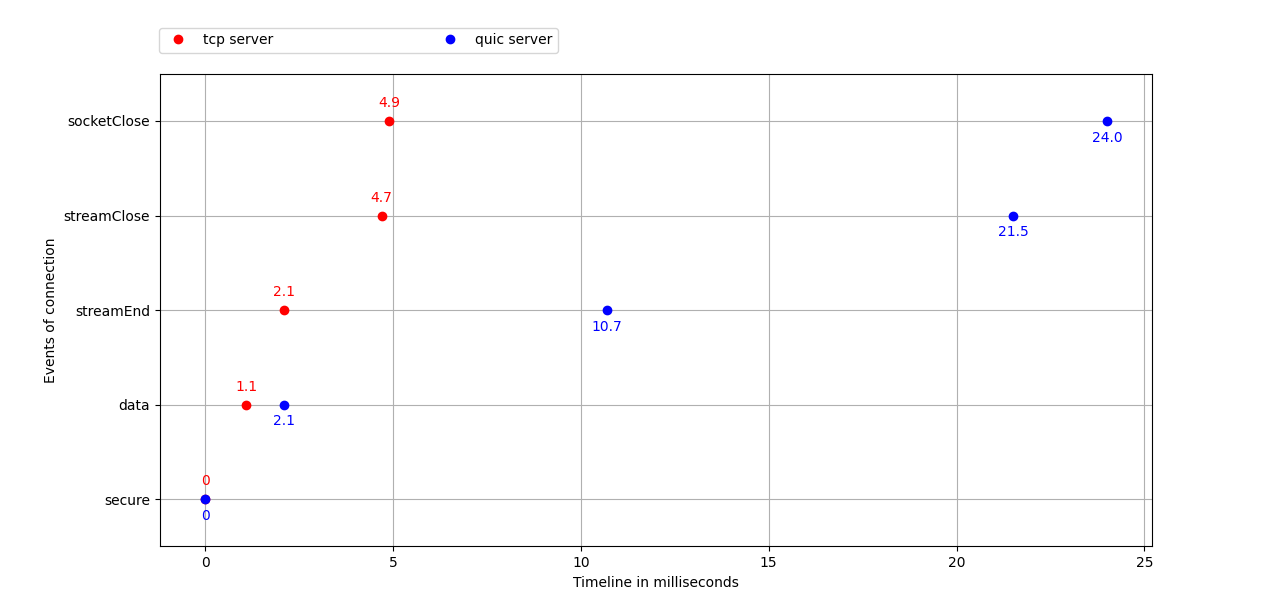
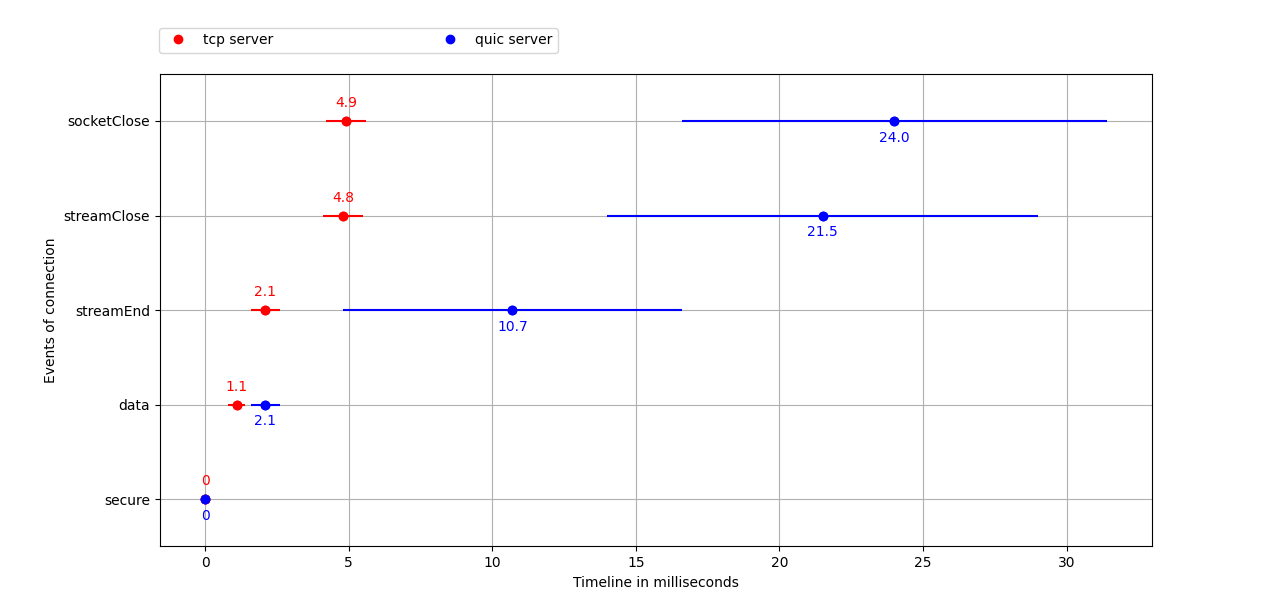
Add stdev to event comparison graph

diff --git a/visualize_events/visualize_events.py b/visualize_events/visualize_events.py
@@ -24,9 +24,9 @@ def set_timestamps():
     quic_dict = load_results(quic_key, samples_path("samples_threshold5_dev2_delay0"))
     tcp_dict = load_results(tcp_key, samples_path("samples_threshold5_dev2_delay0"))    
 
-    quic_labels, quic_stamps = get_timestamps(quic_dict)
-    tcp_labels, tcp_stamps = get_timestamps(tcp_dict)
-    return quic_labels, quic_stamps, tcp_labels, tcp_stamps
+    quic_labels, quic_stamps, quic_stdev = get_timestamps(quic_dict)
+    tcp_labels, tcp_stamps, tcp_stdev = get_timestamps(tcp_dict)
+    return quic_labels, quic_stamps, quic_stdev, tcp_labels, tcp_stamps, tcp_stdev
 
 
 def get_timestamps(dictionary):
@@ -35,12 +35,16 @@ def get_timestamps(dictionary):
     keys = ["data", "streamEnd", "streamClose", "socketClose"]
     stamps = []
     labels = [secure]
+    stdev_values = []
     stamps.append(0)
+    stdev_values.append(0)
     for key in keys:
         value = round(dictionary["server"][f"{secure}-to-{key}"][average] / 1000, 1)
+        value_stdev = round(dictionary["server"][f"{secure}-to-{key}"]["stdev"] / 1000, 1)
         stamps.append(value)
         labels.append(key)
-    return labels, stamps
+        stdev_values.append(value_stdev)
+    return labels, stamps, stdev_values
 
 
 def annotate_points(subplot, stamps, labels, socket_type, color):
@@ -53,7 +57,7 @@ def annotate_points(subplot, stamps, labels, socket_type, color):
 
 
 
-def plot_graph(quic_labels, quic_stamps, tcp_labels, tcp_stamps):
+def plot_graph(quic_labels, quic_stamps, quic_stdev, tcp_labels, tcp_stamps, tcp_stdev):
     # static colors for graphs -> quic == blue, tcp == red
     quic_serv_col = 'b'
     col_tcp_serv = 'r'
@@ -62,7 +66,9 @@ def plot_graph(quic_labels, quic_stamps, tcp_labels, tcp_stamps):
     fig = plt.figure()
     ax = fig.add_subplot(111)
     ax.plot(np.array(tcp_stamps), np.array(tcp_labels), c=col_tcp_serv, marker='o', ls='', label="tcp server")
+    ax.errorbar(np.array(tcp_stamps), np.array(tcp_labels), xerr=tcp_stdev, fmt='o', c=col_tcp_serv)
     ax.plot(np.array(quic_stamps), np.array(quic_labels), c=quic_serv_col, marker='o', ls='', label="quic server")
+    ax.errorbar(np.array(quic_stamps), np.array(quic_labels), xerr=quic_stdev, fmt='o', c=quic_serv_col)
     annotate_points(ax, tcp_stamps, tcp_labels, 'tcp', col_tcp_serv)
     annotate_points(ax, quic_stamps, quic_labels, 'quic', quic_serv_col)
 
@@ -75,5 +81,5 @@ def plot_graph(quic_labels, quic_stamps, tcp_labels, tcp_stamps):
 
 
 if __name__ == '__main__':
-    quic_labels, quic_stamps, tcp_labels, tcp_stamps = set_timestamps()
-    plot_graph(quic_labels, quic_stamps, tcp_labels, tcp_stamps)
+    quic_labels, quic_stamps, quic_stdev, tcp_labels, tcp_stamps, tcp_stdev = set_timestamps()
+    plot_graph(quic_labels, quic_stamps, quic_stdev, tcp_labels, tcp_stamps, tcp_stdev)

diff --git a/visualize_events/dataloader.py b/visualize_events/dataloader.py
@@ -1,6 +1,6 @@
 import os
 import json
-from statistics import median
+from statistics import median, stdev
 from dateutil import parser, relativedelta
 
 
@@ -104,12 +104,23 @@ def average_results(results):
 def median_results(results):
     for key, _ in results['server'].items():
         values = results['server'][key].values()
-        results['server'][key]['avg'] = median(values)
+        results['server'][key]['median'] = median(values)
     for key, _ in results['client'].items():
         values = results['client'][key].values()
-        results['client'][key]['avg'] = median(values)
+        results['client'][key]['median'] = median(values)
     values = results['handshakeDuration'].values()
-    results['handshakeDuration']['avg'] = median(values)
+    results['handshakeDuration']['median'] = median(values)
+
+
+def stdev_results(results):
+    for key, _ in results['server'].items():
+        values = results['server'][key].values()
+        results['server'][key]['stdev'] = stdev(values)
+    for key, _ in results['client'].items():
+        values = results['client'][key].values()
+        results['client'][key]['stdev'] = stdev(values)
+    values = results['handshakeDuration'].values()
+    results['handshakeDuration']['stdev'] = stdev(values)
 
 
 def load_results(socket_type, path):
@@ -117,7 +128,8 @@ def load_results(socket_type, path):
     folders = load_folders(socket_type, path)
     read_results(path, folders, socket_type, results)
     average_results(results)
-    # median_results(results)
+    median_results(results)
+    stdev_results(results)
     return results
 
 
